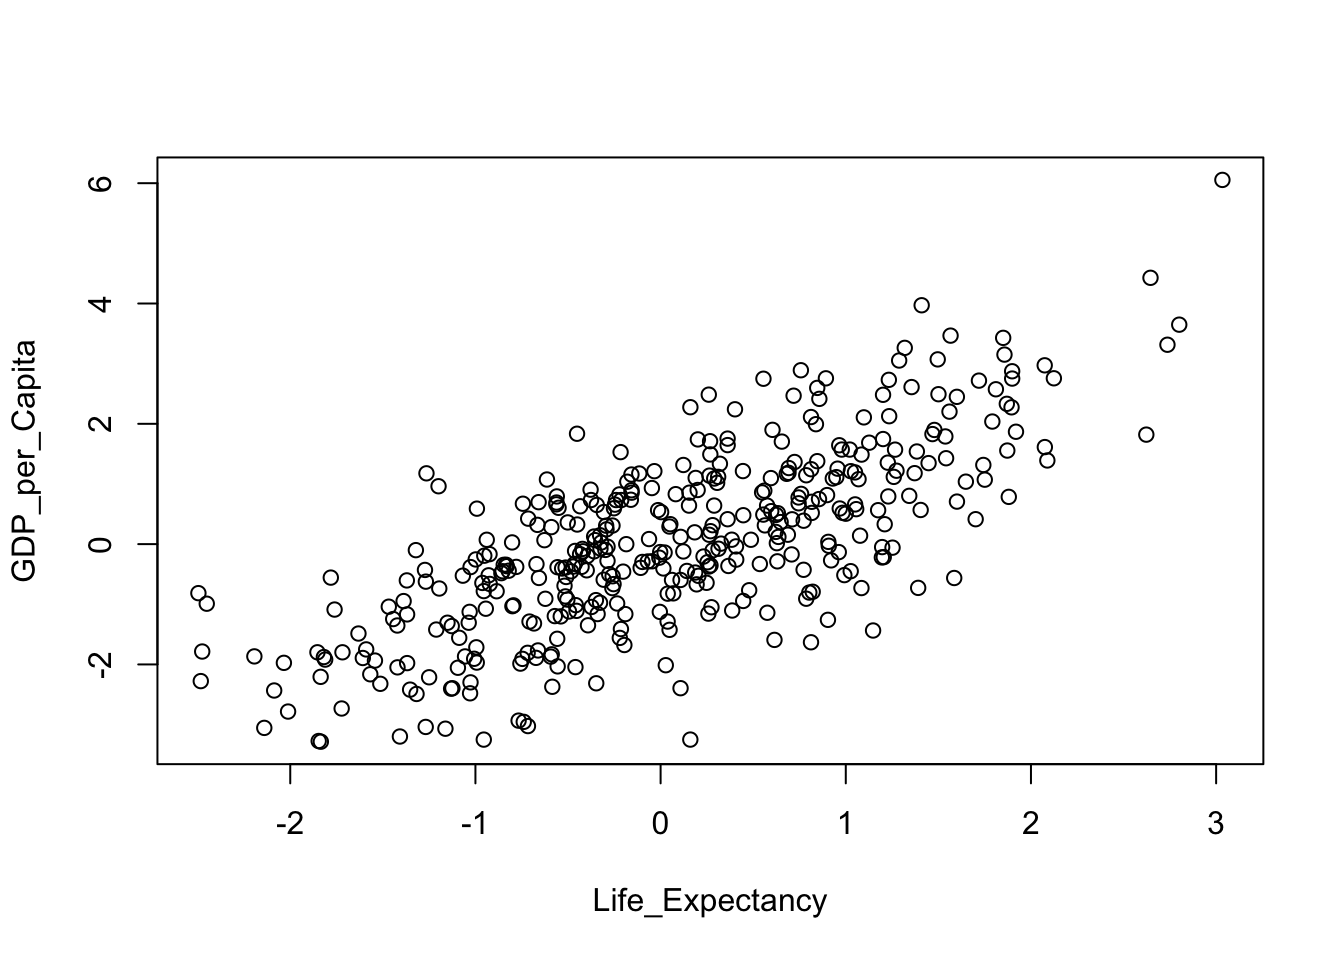
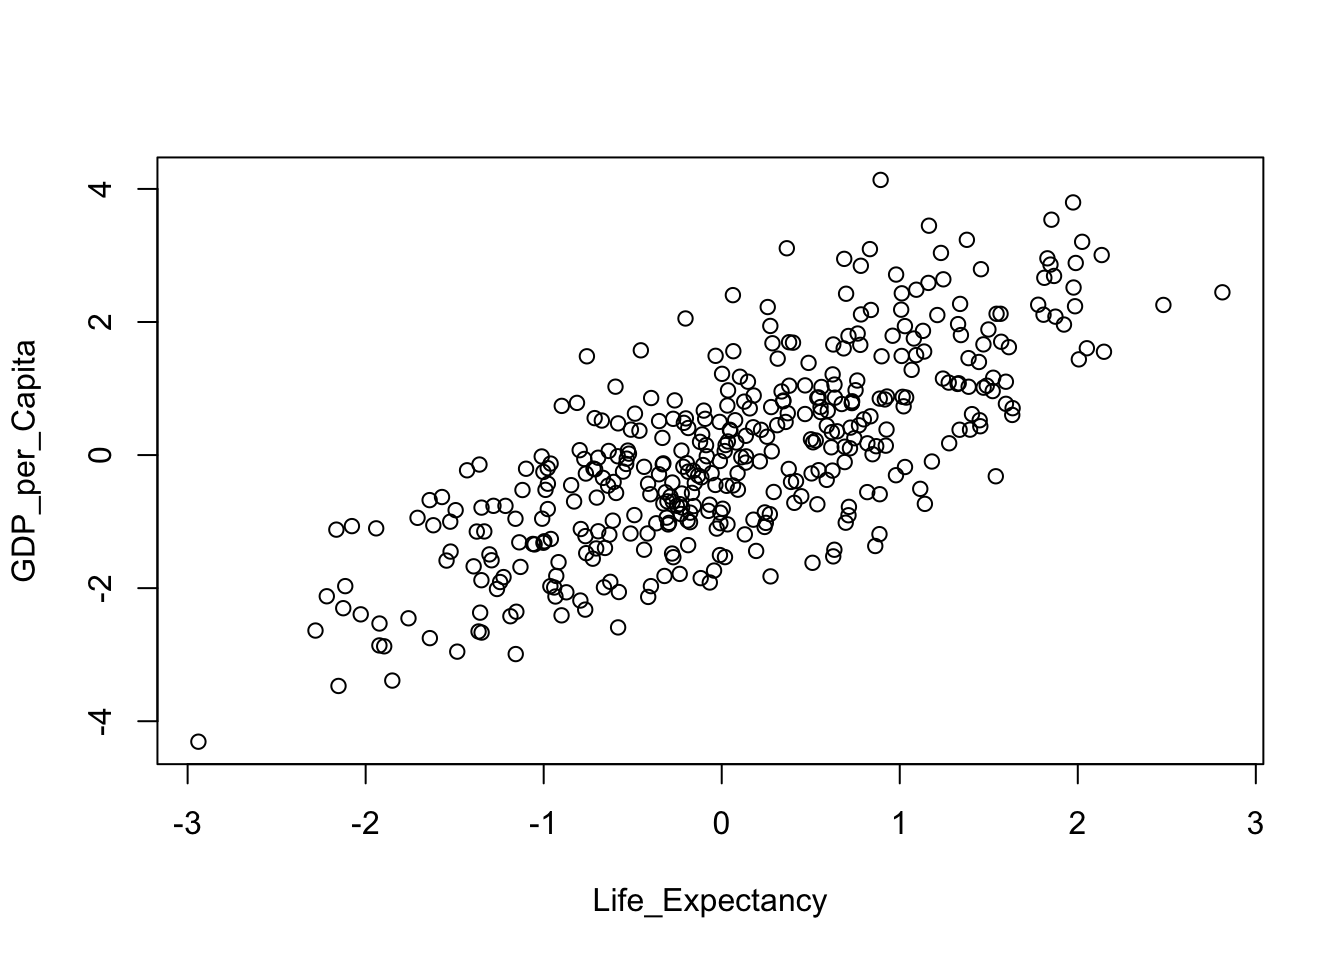
Add files via upload

diff --git a/assignment2.html b/assignment2.html
@@ -181,6 +181,18 @@ code span.wa { color: #60a0b0; font-weight: bold; font-style: italic; } /* Warni
     <a class="dropdown-item" href="./assignment7.html">
  <span class="dropdown-text">assignment7</span></a>
   </li>  
+        <li>
+    <a class="dropdown-item" href="./assignment8.html">
+ <span class="dropdown-text">assignment8</span></a>
+  </li>  
+        <li>
+    <a class="dropdown-item" href="./assignment9.html">
+ <span class="dropdown-text">assignment9</span></a>
+  </li>  
+        <li>
+    <a class="dropdown-item" href="./assignment10.html">
+ <span class="dropdown-text">assignment10</span></a>
+  </li>  
     </ul>
   </li>
   <li class="nav-item">
@@ -287,16 +299,16 @@ replace the existing scale.</code></pre>
 <span id="cb4-37"><a href="#cb4-37" aria-hidden="true" tabindex="-1"></a>Y <span class="ot">&lt;-</span> <span class="fu">rnorm</span>(<span class="dv">50</span>)</span>
 <span id="cb4-38"><a href="#cb4-38" aria-hidden="true" tabindex="-1"></a>Y</span></code><button title="Copy to Clipboard" class="code-copy-button"><i class="bi"></i></button></pre></div>
 <div class="cell-output cell-output-stdout">
-<pre><code> [1]  0.796384031  0.978007739  0.700548282 -0.173488446  0.325441945
- [6] -1.333318810 -0.802015685 -0.001926805 -1.532959817  1.588827409
-[11]  0.579887946 -0.385681628  1.025566283  0.014225246  0.901838437
-[16] -0.122770249  1.045021713 -0.844798985 -0.933307143  0.041442792
-[21] -0.131014242  0.504866069  2.186129749 -1.641256790  1.469949681
-[26]  0.399921862  3.248336431 -0.390109938 -0.807095976 -0.344043165
-[31] -0.038774072 -0.500159452 -1.246563877  0.305697840 -0.401952538
-[36]  0.199597421 -1.538398758 -0.560311935 -1.583033836  0.521153106
-[41]  0.987384939 -0.674871721 -1.005967764  0.416818197 -0.646636384
-[46]  2.542717379  0.544438537  1.630106131  0.345419369  0.507082356</code></pre>
+<pre><code> [1]  1.232564450 -0.754196415  1.132546854  0.261927388 -0.768611442
+ [6]  0.401571691 -0.136849393 -1.230204791 -0.322238299 -0.041900906
+[11]  0.067393269  0.193268069 -0.920229995  0.068617527 -0.965771682
+[16]  0.001573426 -3.153715822 -1.074423296  0.920537347 -0.307053762
+[21] -1.191599407  0.692488639 -0.029753212  0.677834832 -0.248811797
+[26] -0.015794683  1.314335374  0.512318084  1.357841275 -1.838258348
+[31] -0.304819243 -1.229693861 -0.465402913 -0.219703908 -0.313636952
+[36] -1.270385281 -0.249569568  0.885037297 -0.574243964  0.113489296
+[41] -0.468169792  0.762109167  0.012709904  0.672076678  1.067194168
+[46]  1.425587332  0.101452490  0.763773563  1.611940428  0.737035545</code></pre>
 </div>
 <div class="cell-output-display">
 <p><img src="assignment2_files/figure-html/unnamed-chunk-3-1.png" class="img-fluid" width="672"></p>

diff --git a/assignment6.html b/assignment6.html
@@ -118,6 +118,18 @@ ul.task-list{list-style: none;}
     <a class="dropdown-item" href="./assignment7.html">
  <span class="dropdown-text">assignment7</span></a>
   </li>  
+        <li>
+    <a class="dropdown-item" href="./assignment8.html">
+ <span class="dropdown-text">assignment8</span></a>
+  </li>  
+        <li>
+    <a class="dropdown-item" href="./assignment9.html">
+ <span class="dropdown-text">assignment9</span></a>
+  </li>  
+        <li>
+    <a class="dropdown-item" href="./assignment10.html">
+ <span class="dropdown-text">assignment10</span></a>
+  </li>  
     </ul>
   </li>
   <li class="nav-item">
@@ -171,10 +183,6 @@ ul.task-list{list-style: none;}
 </section>
 </section>
 </section>
-  
-
-<iframe width="800" height="600" src=" https://seongdeokoh.shinyapps.io/Assignment06/" frameborder="0" allowfullscreen> </iframe>
-  
 
 </main> <!-- /main -->
 <script id="quarto-html-after-body" type="application/javascript">

diff --git a/assignment1.html b/assignment1.html
@@ -181,6 +181,18 @@ code span.wa { color: #60a0b0; font-weight: bold; font-style: italic; } /* Warni
     <a class="dropdown-item" href="./assignment7.html">
  <span class="dropdown-text">assignment7</span></a>
   </li>  
+        <li>
+    <a class="dropdown-item" href="./assignment8.html">
+ <span class="dropdown-text">assignment8</span></a>
+  </li>  
+        <li>
+    <a class="dropdown-item" href="./assignment9.html">
+ <span class="dropdown-text">assignment9</span></a>
+  </li>  
+        <li>
+    <a class="dropdown-item" href="./assignment10.html">
+ <span class="dropdown-text">assignment10</span></a>
+  </li>  
     </ul>
   </li>
   <li class="nav-item">

diff --git a/assignment3.html b/assignment3.html
@@ -181,6 +181,18 @@ code span.wa { color: #60a0b0; font-weight: bold; font-style: italic; } /* Warni
     <a class="dropdown-item" href="./assignment7.html">
  <span class="dropdown-text">assignment7</span></a>
   </li>  
+        <li>
+    <a class="dropdown-item" href="./assignment8.html">
+ <span class="dropdown-text">assignment8</span></a>
+  </li>  
+        <li>
+    <a class="dropdown-item" href="./assignment9.html">
+ <span class="dropdown-text">assignment9</span></a>
+  </li>  
+        <li>
+    <a class="dropdown-item" href="./assignment10.html">
+ <span class="dropdown-text">assignment10</span></a>
+  </li>  
     </ul>
   </li>
   <li class="nav-item">

diff --git a/assignment4.html b/assignment4.html
@@ -181,6 +181,18 @@ code span.wa { color: #60a0b0; font-weight: bold; font-style: italic; } /* Warni
     <a class="dropdown-item" href="./assignment7.html">
  <span class="dropdown-text">assignment7</span></a>
   </li>  
+        <li>
+    <a class="dropdown-item" href="./assignment8.html">
+ <span class="dropdown-text">assignment8</span></a>
+  </li>  
+        <li>
+    <a class="dropdown-item" href="./assignment9.html">
+ <span class="dropdown-text">assignment9</span></a>
+  </li>  
+        <li>
+    <a class="dropdown-item" href="./assignment10.html">
+ <span class="dropdown-text">assignment10</span></a>
+  </li>  
     </ul>
   </li>
   <li class="nav-item">

diff --git a/assignment5.html b/assignment5.html
@@ -181,6 +181,18 @@ code span.wa { color: #60a0b0; font-weight: bold; font-style: italic; } /* Warni
     <a class="dropdown-item" href="./assignment7.html">
  <span class="dropdown-text">assignment7</span></a>
   </li>  
+        <li>
+    <a class="dropdown-item" href="./assignment8.html">
+ <span class="dropdown-text">assignment8</span></a>
+  </li>  
+        <li>
+    <a class="dropdown-item" href="./assignment9.html">
+ <span class="dropdown-text">assignment9</span></a>
+  </li>  
+        <li>
+    <a class="dropdown-item" href="./assignment10.html">
+ <span class="dropdown-text">assignment10</span></a>
+  </li>  
     </ul>
   </li>
   <li class="nav-item">

diff --git a/about.html b/about.html
@@ -118,6 +118,18 @@ ul.task-list{list-style: none;}
     <a class="dropdown-item" href="./assignment7.html">
  <span class="dropdown-text">assignment7</span></a>
   </li>  
+        <li>
+    <a class="dropdown-item" href="./assignment8.html">
+ <span class="dropdown-text">assignment8</span></a>
+  </li>  
+        <li>
+    <a class="dropdown-item" href="./assignment9.html">
+ <span class="dropdown-text">assignment9</span></a>
+  </li>  
+        <li>
+    <a class="dropdown-item" href="./assignment10.html">
+ <span class="dropdown-text">assignment10</span></a>
+  </li>  
     </ul>
   </li>
   <li class="nav-item">

diff --git a/assignment7.html b/assignment7.html
@@ -118,6 +118,18 @@ ul.task-list{list-style: none;}
     <a class="dropdown-item" href="./assignment7.html">
  <span class="dropdown-text">assignment7</span></a>
   </li>  
+        <li>
+    <a class="dropdown-item" href="./assignment8.html">
+ <span class="dropdown-text">assignment8</span></a>
+  </li>  
+        <li>
+    <a class="dropdown-item" href="./assignment9.html">
+ <span class="dropdown-text">assignment9</span></a>
+  </li>  
+        <li>
+    <a class="dropdown-item" href="./assignment10.html">
+ <span class="dropdown-text">assignment10</span></a>
+  </li>  
     </ul>
   </li>
   <li class="nav-item">

diff --git a/project.html b/project.html
@@ -118,6 +118,18 @@ ul.task-list{list-style: none;}
     <a class="dropdown-item" href="./assignment7.html">
  <span class="dropdown-text">assignment7</span></a>
   </li>  
+        <li>
+    <a class="dropdown-item" href="./assignment8.html">
+ <span class="dropdown-text">assignment8</span></a>
+  </li>  
+        <li>
+    <a class="dropdown-item" href="./assignment9.html">
+ <span class="dropdown-text">assignment9</span></a>
+  </li>  
+        <li>
+    <a class="dropdown-item" href="./assignment10.html">
+ <span class="dropdown-text">assignment10</span></a>
+  </li>  
     </ul>
   </li>
   <li class="nav-item">

diff --git a/research.html b/research.html
@@ -118,6 +118,18 @@ ul.task-list{list-style: none;}
     <a class="dropdown-item" href="./assignment7.html">
  <span class="dropdown-text">assignment7</span></a>
   </li>  
+        <li>
+    <a class="dropdown-item" href="./assignment8.html">
+ <span class="dropdown-text">assignment8</span></a>
+  </li>  
+        <li>
+    <a class="dropdown-item" href="./assignment9.html">
+ <span class="dropdown-text">assignment9</span></a>
+  </li>  
+        <li>
+    <a class="dropdown-item" href="./assignment10.html">
+ <span class="dropdown-text">assignment10</span></a>
+  </li>  
     </ul>
   </li>
   <li class="nav-item">
